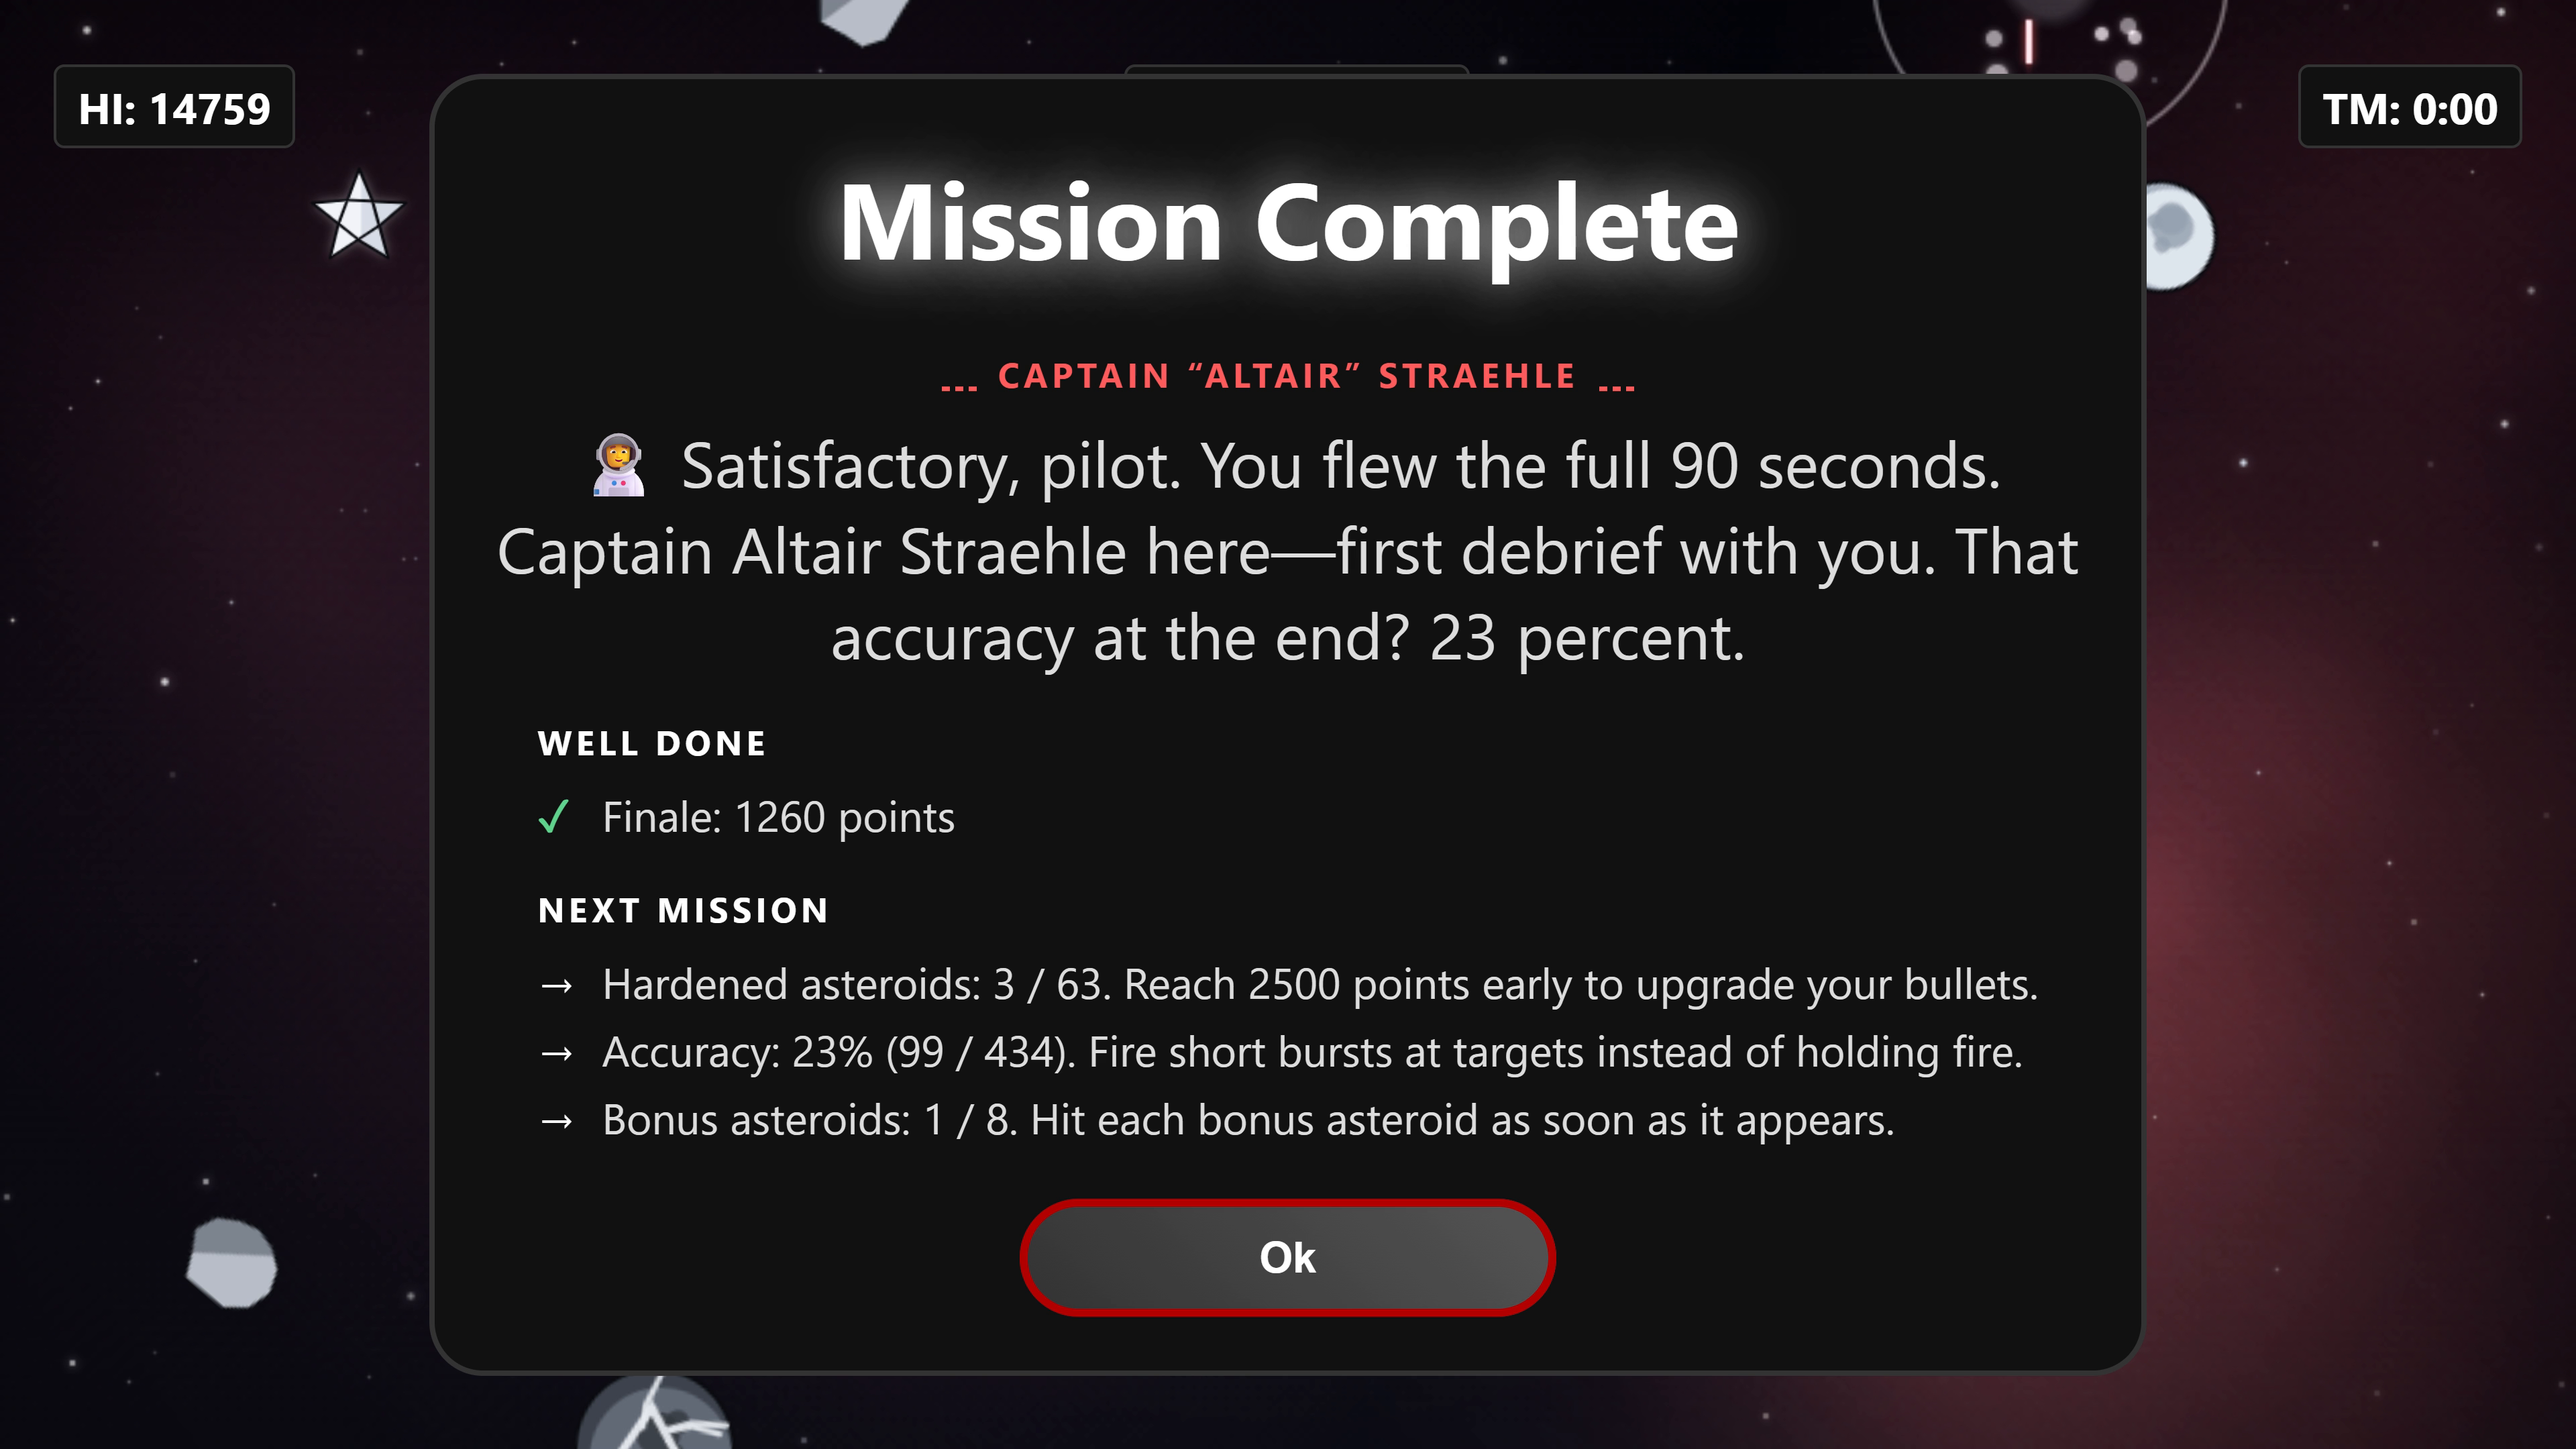
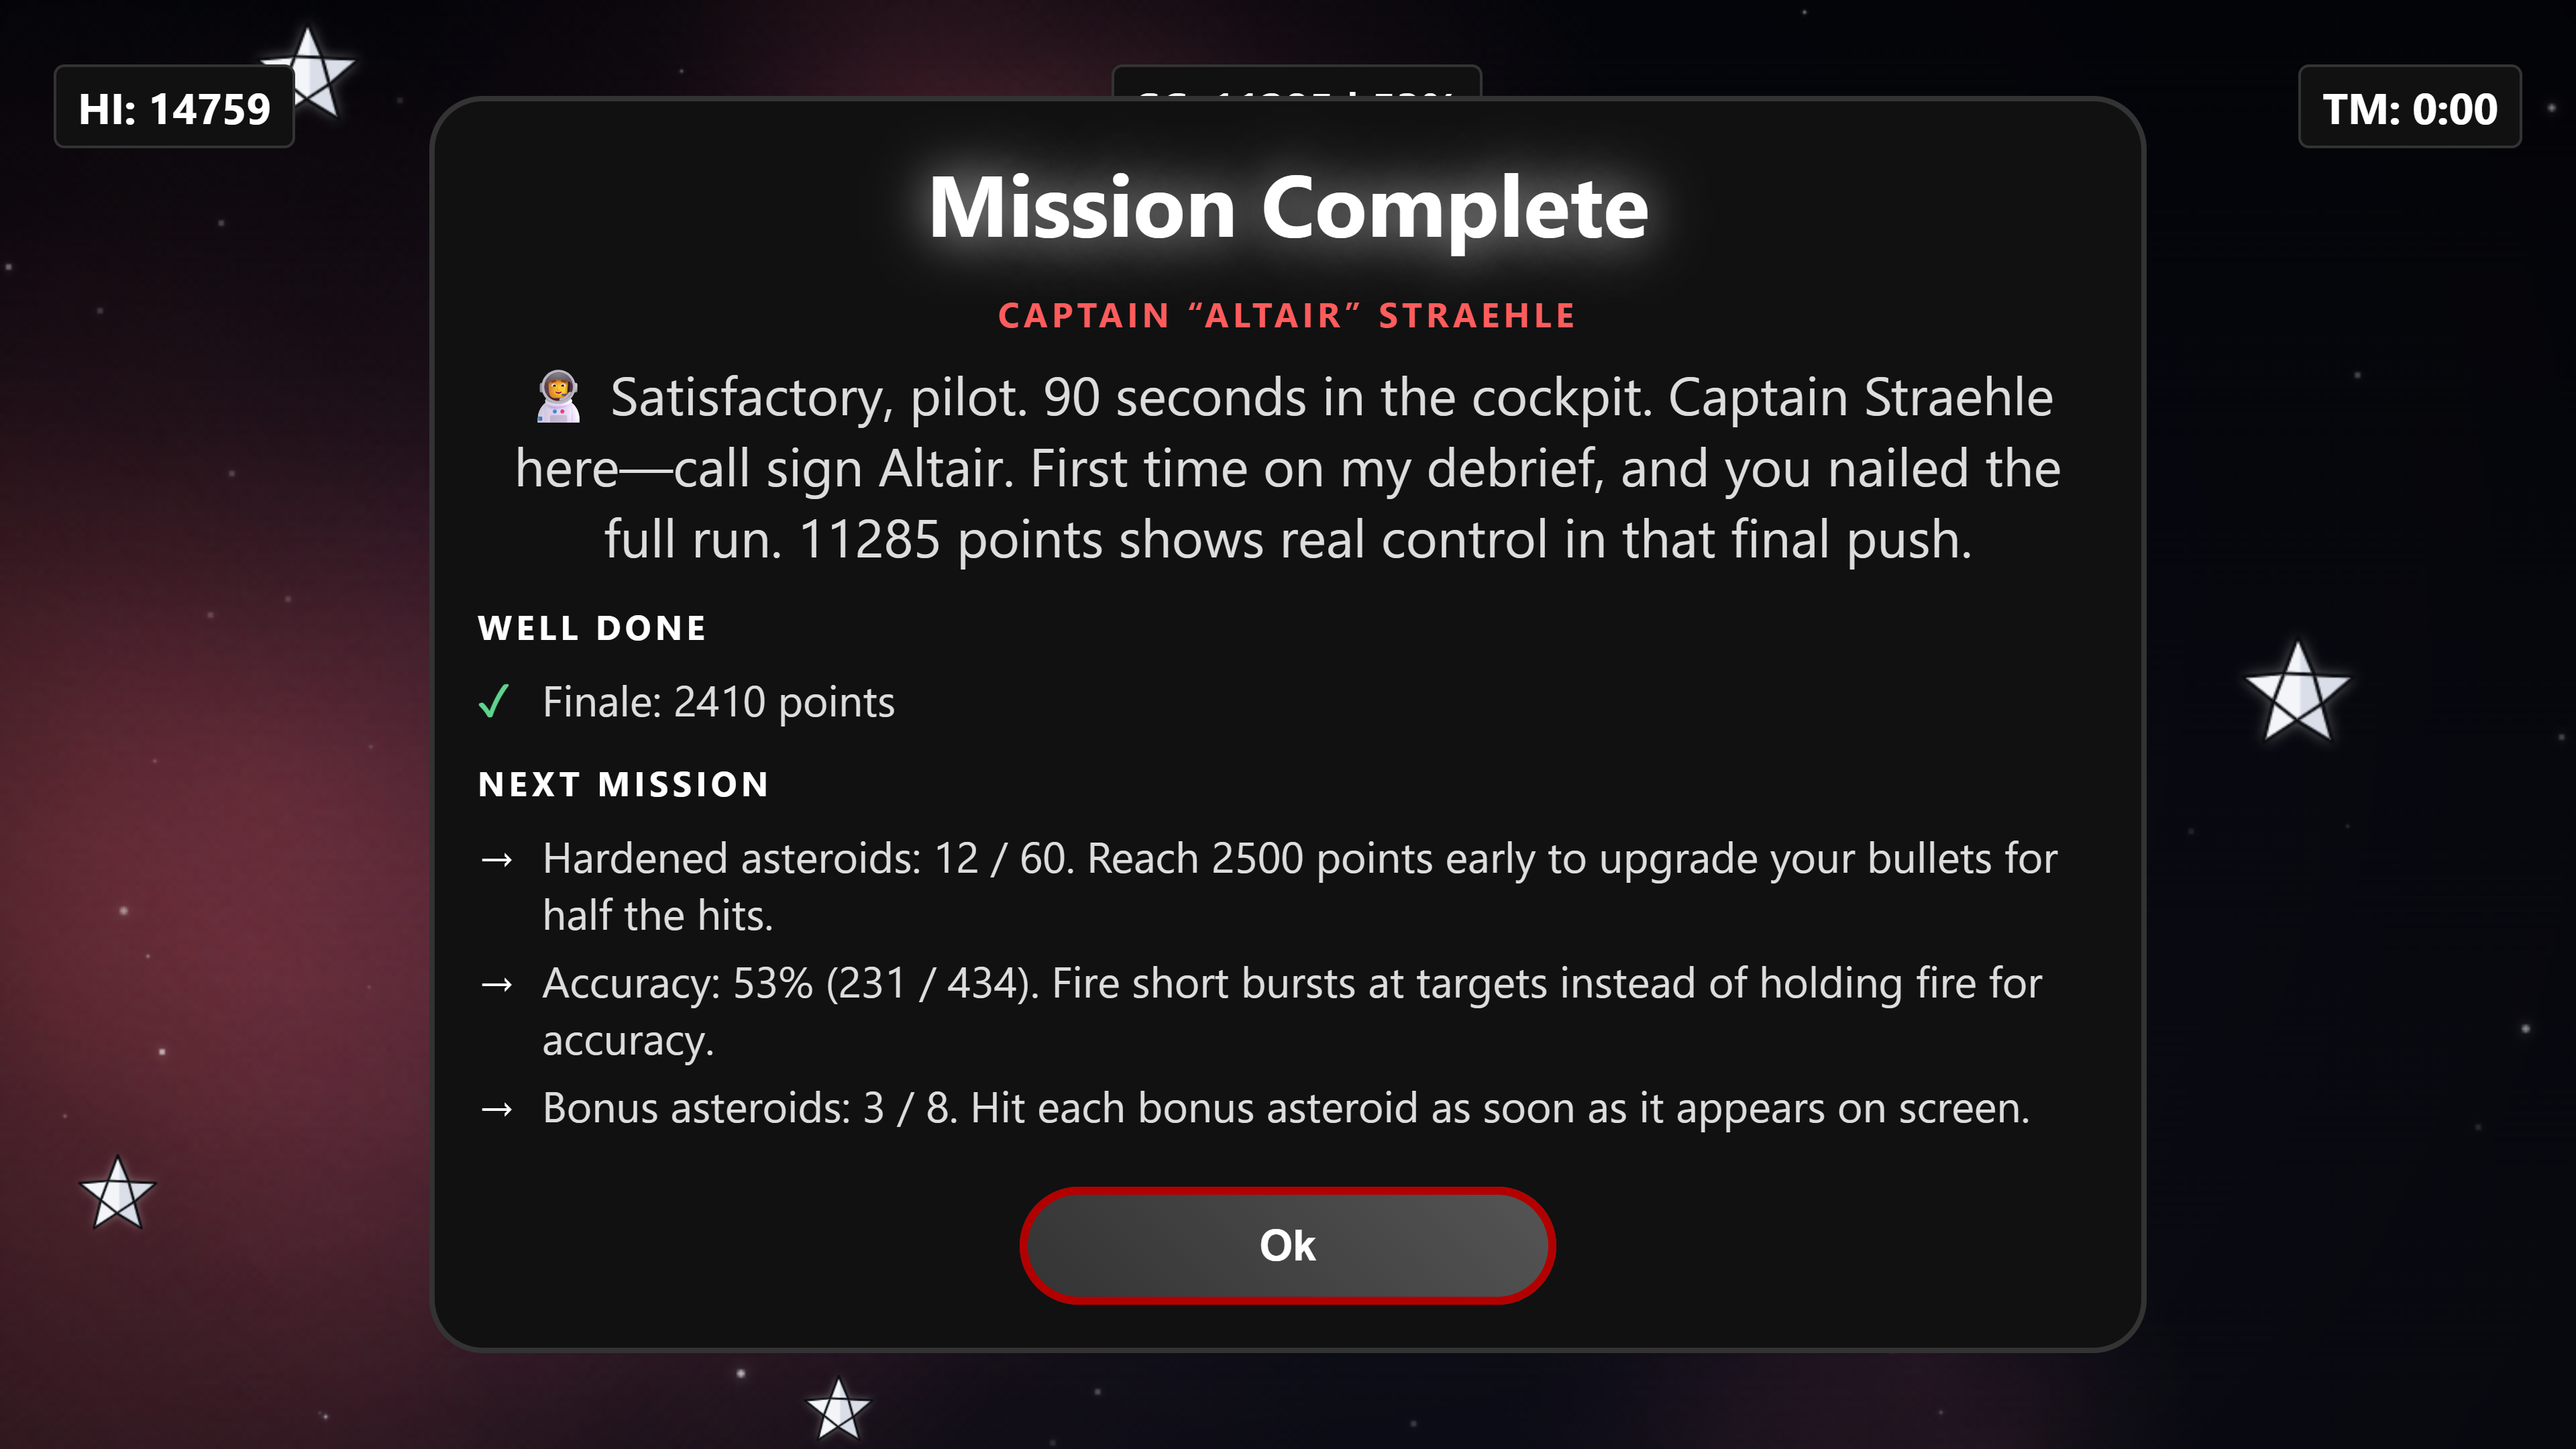
Fit the debrief dialog on short screens; re-take the 4K game-over shot
The game-over overlay centred its dialog with flexbox, so a debrief taller
than the screen was clipped at the top with no way to scroll to it (about
90px on landscape phones, 18px at 960x540). It now uses safe centering,
and screens up to 600px tall get tighter dialog spacing, so a full debrief
fits 960x540 and longer ones scroll. The 4K landscape game-over shot is
rendered with the shared store debrief instead of being a frame of the
store video.

Generated with [Devin](https://devin.ai)

diff --git a/style.css b/style.css
@@ -200,6 +200,8 @@ body {
 /* 5. Overlays -------------------------------------------- */
 .game-over-screen {
   align-items: center;
+  /* A dialog taller than the screen starts at the top and scrolls instead of being cut off. */
+  align-items: safe center;
   display: flex;
   inset: 0;
   justify-content: center;
@@ -820,6 +822,30 @@ body.about-body,
       var(--leaderboard-rows-mobile) * var(--leaderboard-row-block) +
         (var(--leaderboard-rows-mobile) - 1) * var(--leaderboard-row-gap)
     );
+  }
+}
+/* Short screens (landscape phones, 540px-tall windows): tighter dialogs so a full debrief fits. */
+@media (max-height: 600px) {
+  .game-over-screen {
+    padding-top: max(var(--space-3), env(safe-area-inset-top));
+    padding-bottom: max(var(--space-3), env(safe-area-inset-bottom));
+  }
+  .game-over-content {
+    padding: var(--space-4);
+    padding-top: var(--space-4) !important;
+  }
+  .game-over-content h2 {
+    font-size: 2rem;
+    margin-bottom: var(--space-3);
+  }
+  .game-over-content p {
+    font-size: 1.25rem;
+  }
+  .post-game-message p {
+    margin-bottom: var(--space-3);
+  }
+  .post-game-message .debrief-section + .debrief-section {
+    margin-top: var(--space-3);
   }
 }
 @media (hover: hover) and (pointer: fine) {

diff --git a/AGENTS.md b/AGENTS.md
@@ -85,11 +85,14 @@ the frames from game over on), skip step 2 (the sound timeline is unchanged), ru
 `--raw` pointing at the new file, then move it over the old raw for next time. This only works
 when the game-over dialog's first frame and the sounds are unchanged (the splice checks that frame
 against the old video); otherwise do the full render. The 4K landscape screenshots
-(`store-screenshots/3840x2160`) are frames of the raw video: `4-gameover.png` is frame 6620 (the
-held debrief) and `5-leaderboard.png` frame 6900 (extract with
-`-vf "select=eq(n\,6620)" -frames:v 1 -pix_fmt rgb24`: 24-bit, no alpha). The frames move with
-the post-run timeline: pick them from the `[record] debrief / initials / leaderboard from frame …`
-lines of step 1.
+(`store-screenshots/3840x2160`) are frames of the raw video, except `4-gameover.png`:
+`5-leaderboard.png` is frame 6900 (extract with
+`-vf "select=eq(n\,6900)" -frames:v 1 -pix_fmt rgb24`: 24-bit, no alpha); the frames move with
+the post-run timeline, so pick them from the `[record] debrief / initials / leaderboard from frame …`
+lines of step 1. `4-gameover.png` shows the same debrief as the portrait sets
+(`store-screenshots/debrief.json`): render it with
+`node --experimental-websocket scripts/store-screenshots.cjs --only=none --size=3840x2160@4 --seed=2024 --out=.shots/store-4k`
+plus `--debrief=store-screenshots/debrief.json`, and save its `3-gameover.png` as RGB (no alpha).
 
 ## Testing against production
 
